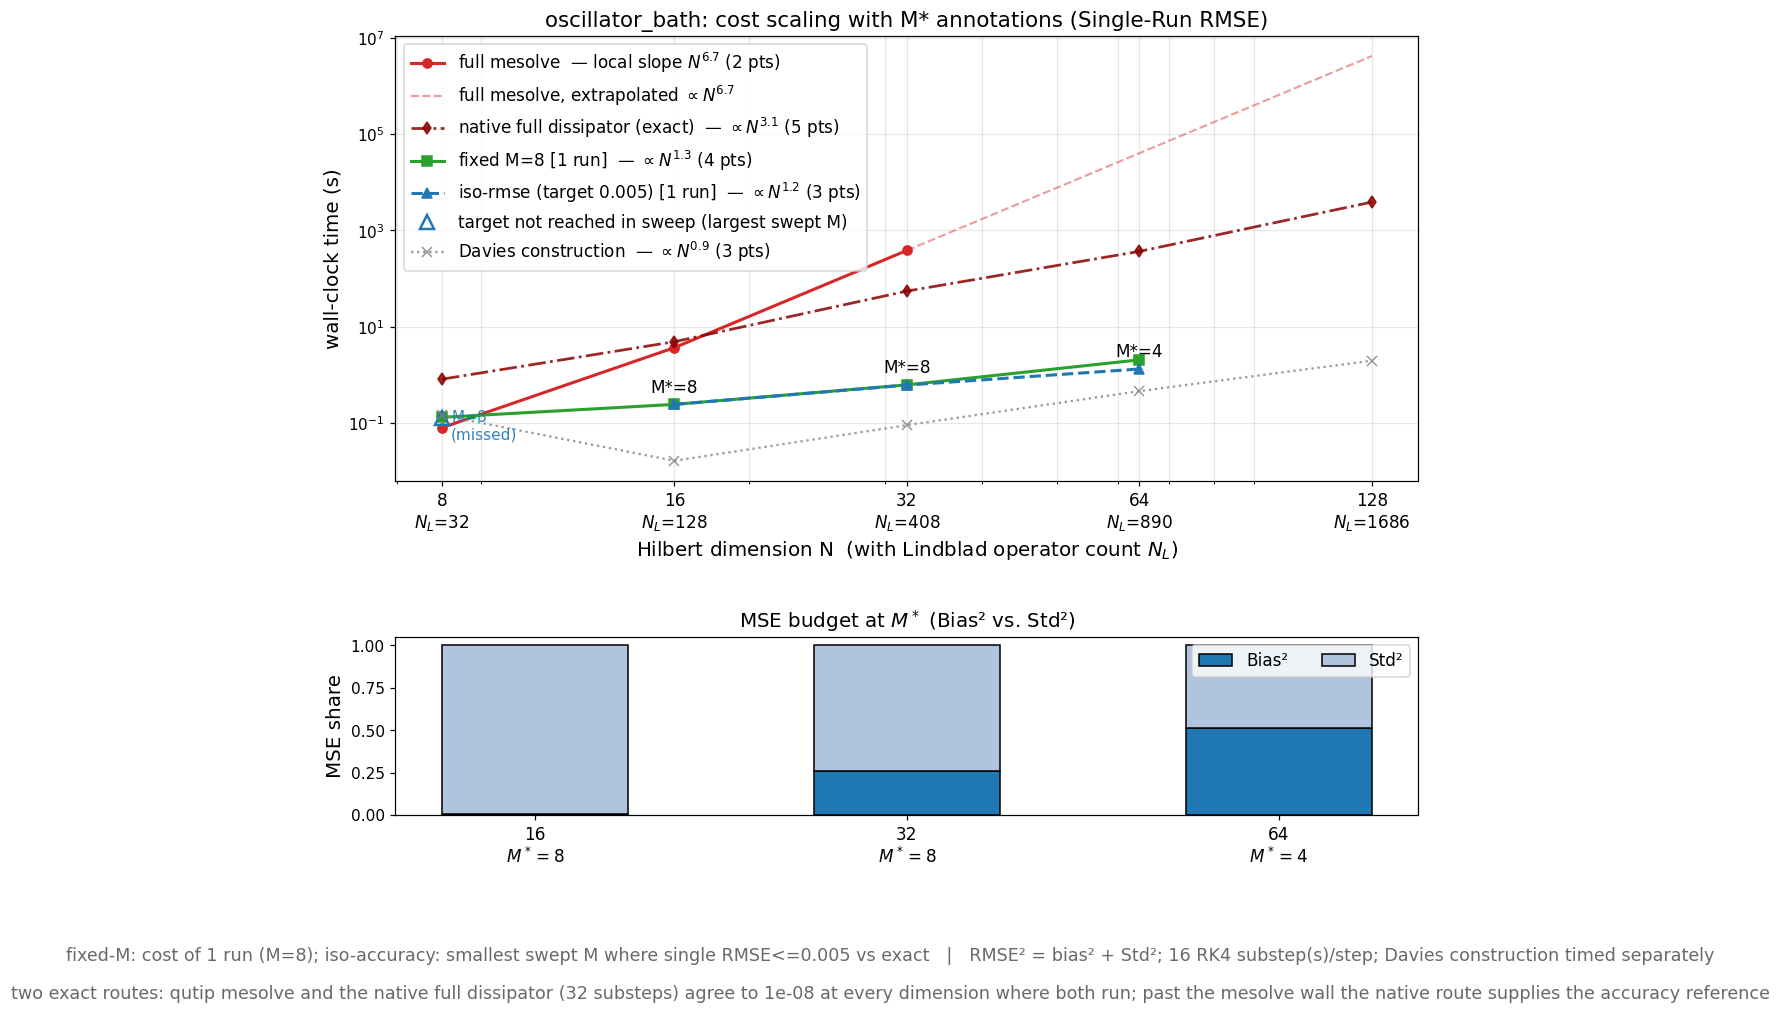
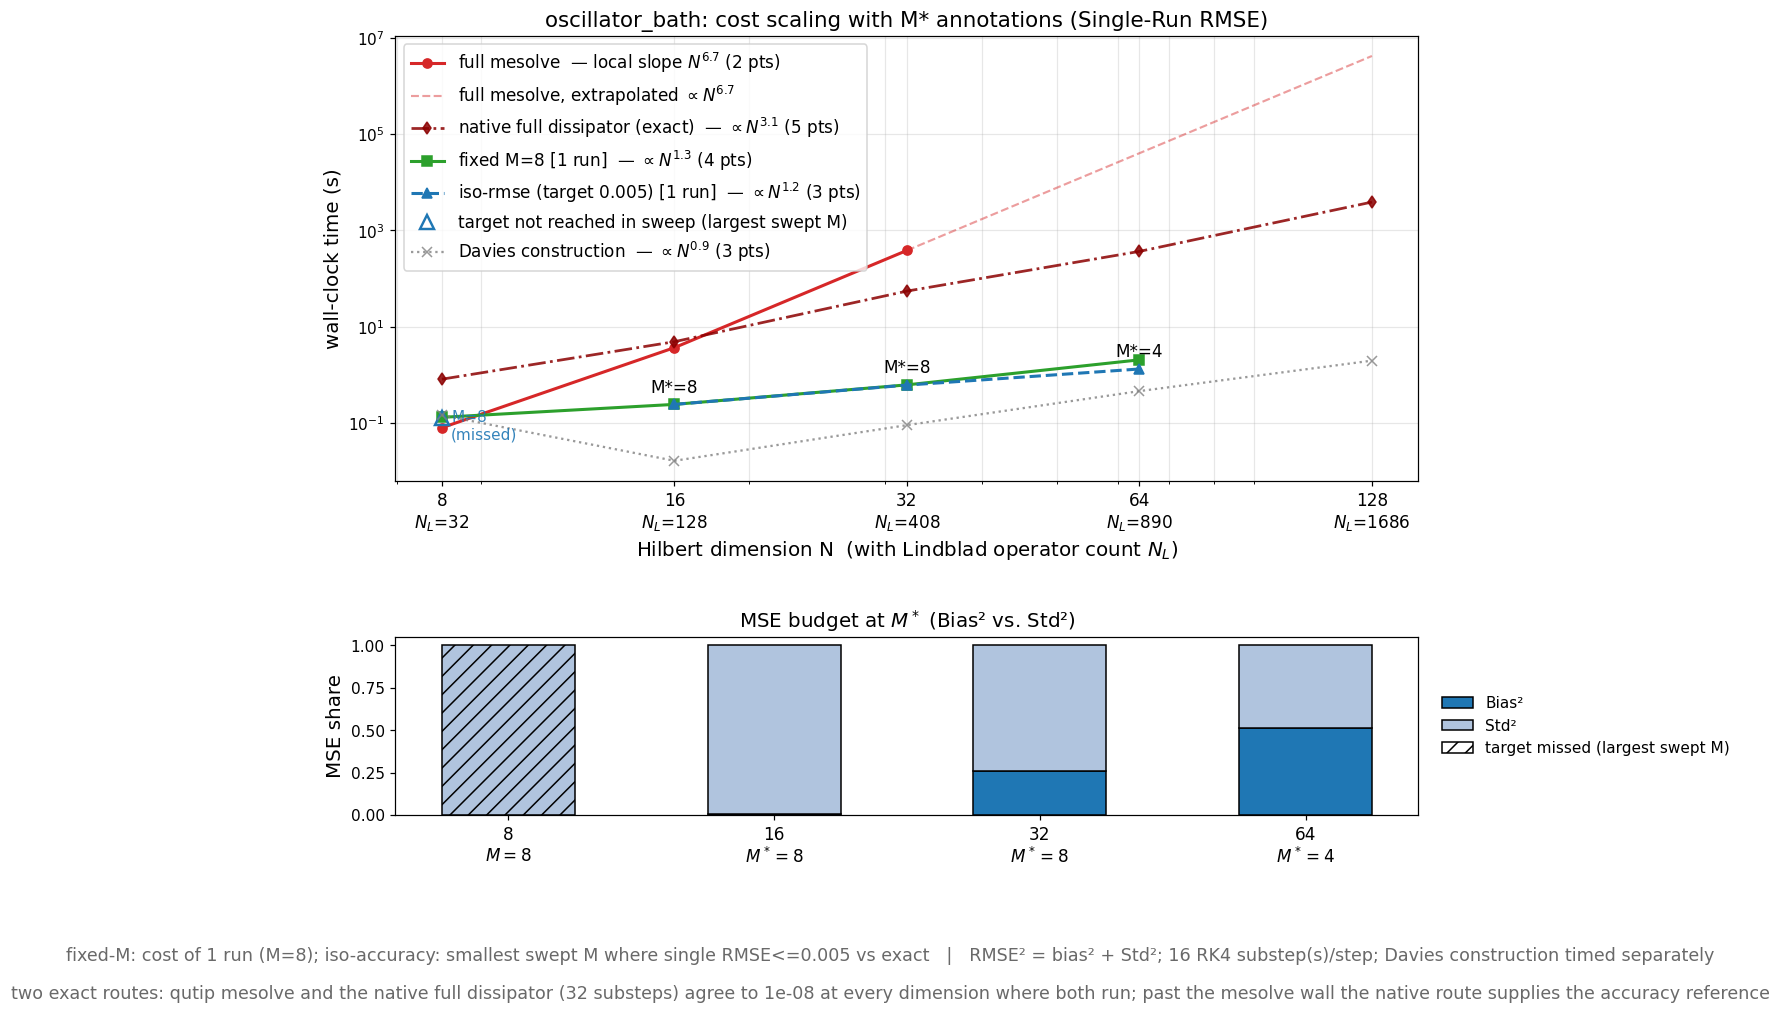
Result 2's MSE panel: show every dimension, and explain what it is
The reader expected one bar per swept dimension and found one bar in total on
System A. Not a plotting bug -- only dim 4 reaches the accuracy target there, so
only dim 4 had an M* to decompose -- but it reads as a broken figure, and the
expectation was the better design.

The dimensions that MISS the target still have a well-defined bias/noise split at
the largest M they swept, and that split is the most useful thing on the panel:
it says WHY they missed. derive_iso was computing it and discarding it. It is
now carried through, and those dimensions are drawn hatched and labelled with
the M actually used rather than an M*.

System A now reads directly: the bias share climbs 17% at dim 4, 43% at 32, 55%
at 64, and stays there. The error stops being noise that averaging removes and
becomes a systematic floor set by M, which is capped at N_L. That is the same
"nothing to compress" conclusion the page reaches elsewhere, arrived at from the
error budget instead of the operator count. System C shows the opposite and
equally deliberate pattern -- bias 0%, 26%, 51% as M* falls 8, 8, 4 -- the
method trading a little bias for a lot of cost and still meeting the target.

The panel was also never described anywhere in Result 2; only Result 4 explains
its own lower panel, for a different figure. A paragraph now says what the split
means and why it is practical rather than decorative: averaging more
realizations shrinks the light part and does nothing to the dark part, so a
[…]

Changed region(s): [[0.2472, 0.6114, 0.8034, 0.856], [0.8034, 0.6726, 0.9579, 0.7643]]

diff --git a/benchmarks/plot_cost_scaling.py b/benchmarks/plot_cost_scaling.py
@@ -113,10 +113,15 @@ def derive_iso(points, target, est_type, err_type, n_acc=16):
         else:
             if last is not None:      # sweep had data, target never met
                 base_cost = last.get("cost")
+                # keep the error split at the largest swept M: it is what
+                # explains the miss, and the bottom panel draws it
+                lm = get_metrics(last, n_acc)[est_type]
                 unreached.append(
                     (p.get("dim"),
                      base_cost / n_acc if est_type == "single" else base_cost,
-                     last.get("M")))
+                     last.get("M"),
+                     lm["bias"] ** 2,
+                     lm["noise_sq"]))
         out.append(row)
     arrs = [np.array(v, dtype=float) for v in zip(*out)]
     return arrs + [unreached]
@@ -312,12 +317,24 @@ def figure(name, doc, target, est_type, err_type):
     ax_main.grid(True, which="both", alpha=0.3)
 
     # ---- BOTTOM PANEL: MSE Share Bar Chart ----
-    # Filter only for points where the target was successfully reached
-    v_dims = dims[ii]
-    v_mstar = mstar[ii]
-    v_bias_sq = iso_bias_sq[ii]
-    v_noise_sq = iso_noise_sq[ii]
-    
+    # Every swept dimension appears. Those that reached the target are drawn at
+    # their M*; those that missed are drawn at the largest M they swept, hatched
+    # and labelled. Showing only the former left System A with a single bar,
+    # which reads as a broken figure rather than as the result it is -- and the
+    # missed dimensions carry the more informative split, since a bias-dominated
+    # bar is *why* the target was out of reach.
+    reached_dims = list(dims[ii])
+    v_dims = list(dims[ii]) + [u[0] for u in unreached]
+    v_mstar = list(mstar[ii]) + [u[2] for u in unreached]
+    v_bias_sq = list(iso_bias_sq[ii]) + [u[3] for u in unreached]
+    v_noise_sq = list(iso_noise_sq[ii]) + [u[4] for u in unreached]
+    order = np.argsort(np.array(v_dims, dtype=float))
+    v_dims = np.array(v_dims, dtype=float)[order]
+    v_mstar = np.array(v_mstar, dtype=float)[order]
+    v_bias_sq = np.array(v_bias_sq, dtype=float)[order]
+    v_noise_sq = np.array(v_noise_sq, dtype=float)[order]
+    missed = np.array([d not in reached_dims for d in v_dims])
+
     if len(v_dims) > 0:
         x_positions = np.arange(len(v_dims))
         width = 0.5
@@ -332,15 +349,29 @@ def figure(name, doc, target, est_type, err_type):
         # Dynamically set legend based on ensemble vs single
         noise_label = "SEM²" if est_type == "ensemble" else "Std²"
         
-        ax_bar.bar(x_positions, bias_shares, width, color="#1f77b4", edgecolor="black", label="Bias²")
-        ax_bar.bar(x_positions, noise_shares, width, bottom=bias_shares, color="#B0C4DE", edgecolor="black", label=noise_label)
-        
+        hatches = ["//" if m else "" for m in missed]
+        for x, b, n, h in zip(x_positions, bias_shares, noise_shares, hatches):
+            ax_bar.bar(x, b, width, color="#1f77b4", edgecolor="black", hatch=h)
+            ax_bar.bar(x, n, width, bottom=b, color="#B0C4DE",
+                       edgecolor="black", hatch=h)
+        # legend proxies, so the hatch meaning is stated once
+        ax_bar.bar(0, 0, 0, color="#1f77b4", edgecolor="black", label="Bias²")
+        ax_bar.bar(0, 0, 0, color="#B0C4DE", edgecolor="black", label=noise_label)
+        if missed.any():
+            ax_bar.bar(0, 0, 0, color="white", edgecolor="black", hatch="//",
+                       label="target missed (largest swept M)")
+
         ax_bar.set_xticks(x_positions)
-        ax_bar.set_xticklabels([f"{int(d)}\n$M^*={int(m)}$" for d, m in zip(v_dims, v_mstar)], fontsize=11)
+        ax_bar.set_xticklabels(
+            [f"{int(d)}\n" + (rf"$M={int(m)}$" if ms else rf"$M^*={int(m)}$")
+             for d, m, ms in zip(v_dims, v_mstar, missed)], fontsize=11)
         ax_bar.set_ylabel("MSE share", fontsize=13)
         ax_bar.set_title(rf"MSE budget at $M^*$ (Bias² vs. {noise_label})", fontsize=13)
         ax_bar.set_ylim(0, 1.05)
-        ax_bar.legend(loc="upper right", ncol=2, fontsize=11)
+        # outside the axes: the bars reach y=1 everywhere, so any
+        # in-axes placement covers data
+        ax_bar.legend(loc="center left", bbox_to_anchor=(1.01, 0.5),
+                      fontsize=10, frameon=False)
     else:
         # Fallback if target was completely unreachable across the board
         ax_bar.text(0.5, 0.5, "No data reached target", ha='center', va='center')

diff --git a/benchmarks/BENCHMARKS.md b/benchmarks/BENCHMARKS.md
@@ -1215,6 +1215,26 @@ sizes.
 ![System B cost scaling](benchmark_cost_scaling_mixed_chain.png)
 ![System C cost scaling](benchmark_cost_scaling_oscillator_bath.png)
 
+**Reading the lower panel.** It answers one question: at the bundle size chosen
+above, is the remaining error *systematic* or *random*? The bar splits the mean
+squared error into **bias²** (solid, dark) and **Std²** (light). The distinction
+is practical rather than decorative — averaging more realizations shrinks the
+light part and does nothing at all to the dark part, which only a larger $M$
+removes. So a light bar means "just sample more", and a dark bar means "this is
+as good as this $M$ gets".
+
+Every swept dimension appears. Hatched bars are dimensions where the accuracy
+target was **not** reached; they are drawn at the largest $M$ the sweep tried,
+and they are the informative ones, because the split explains *why* the target
+was out of reach. On System A the bias share climbs from 17% at dim 4 to 55%
+by dim 64 and stays there — the error stops being noise you can average away
+and becomes a systematic floor set by $M$, which is capped at $N_L$. That is the
+same "nothing to compress" conclusion the rest of this page reaches, arrived at
+from the error budget rather than from the operator count. On System C the bias
+share instead *grows with a falling* $M^\ast$ — 0% at dim 16, 26% at 32, 51% at
+64 as $M^\ast$ drops 8 → 8 → 4 — which is the method trading a little bias for a
+lot of cost, deliberately, and still meeting the target.
+
 The figure has two panels sharing the dimension axis. **Top:** wall-clock time
 for one solve versus Hilbert-space dimension $N$. **Bottom:** the accuracy of the
 SLB solve at each size, so the speed claim is qualified by the error it holds.
